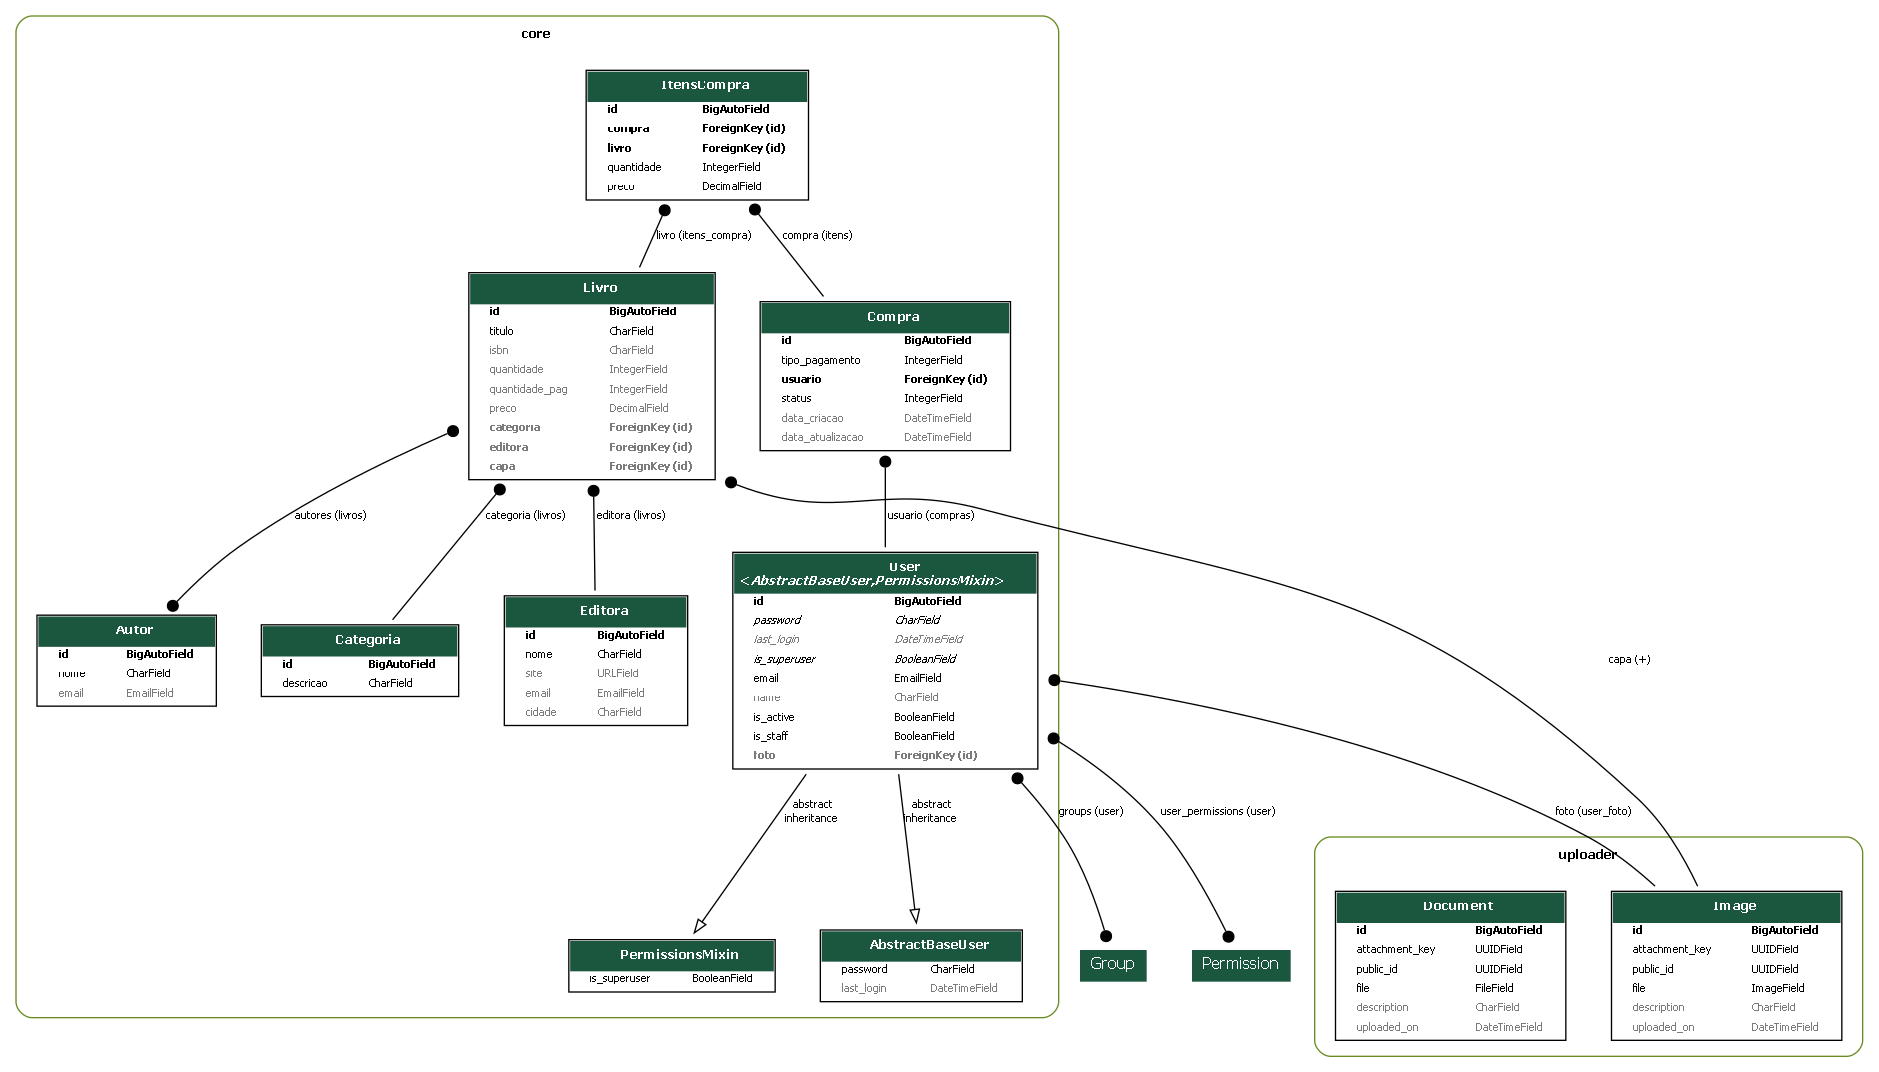
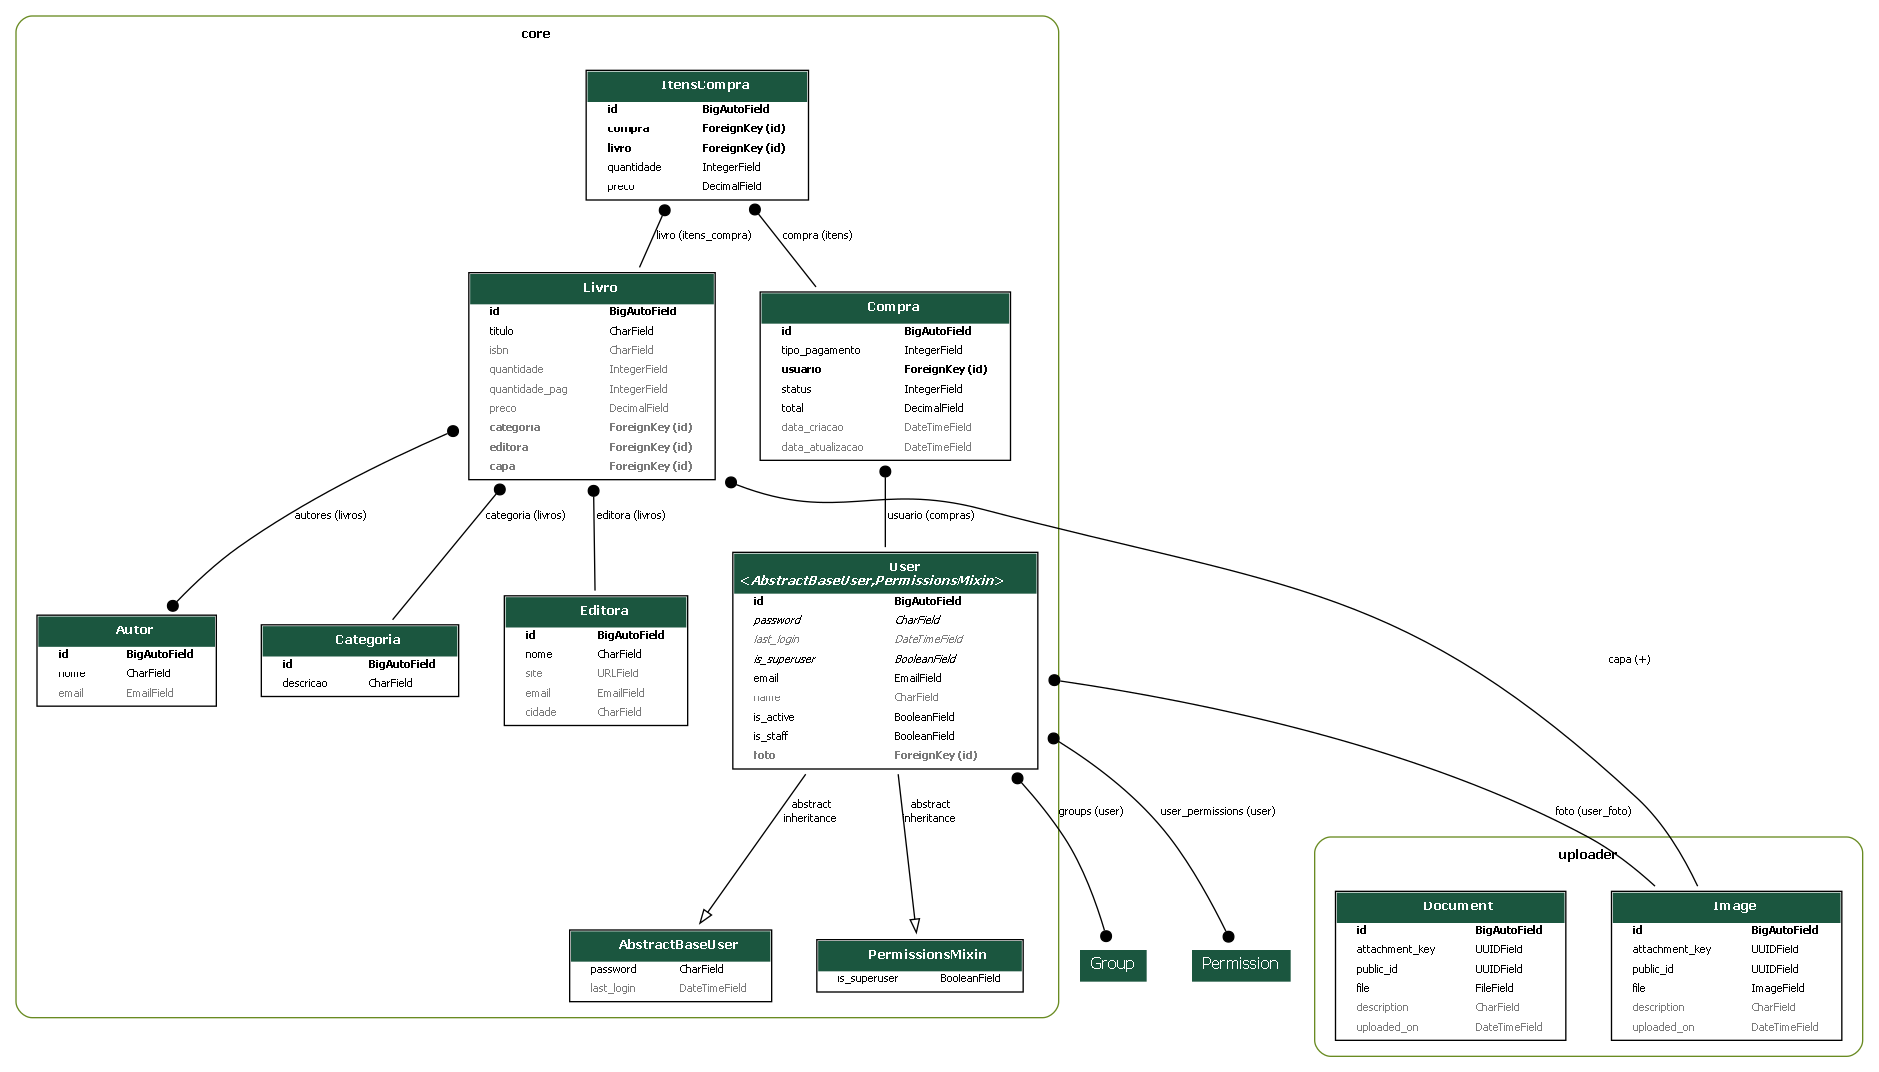
feat: adicionando o total da compra

diff --git a/core/serializers/compra.py b/core/serializers/compra.py
@@ -1,8 +1,4 @@
-from core.models import Compra, ItensCompra
 from django.db import transaction
-from rest_framework import serializers
-
-
 from rest_framework.serializers import (
     CharField,
     CurrentUserDefault,
@@ -10,8 +6,10 @@ from rest_framework.serializers import (
     HiddenField,
     ModelSerializer,
     SerializerMethodField,
-    ValidationError, # novo
+    ValidationError,
 )
+
+from core.models import Compra, ItensCompra
 
 
 class ItensCompraCreateUpdateSerializer(ModelSerializer):
@@ -29,11 +27,23 @@ class ItensCompraCreateUpdateSerializer(ModelSerializer):
             raise ValidationError('Quantidade de itens maior do que a quantidade em estoque.')
         return item
 
-        
+
+class ItensCompraListSerializer(ModelSerializer):
+    livro = CharField(source='livro.titulo', read_only=True)
+
+    class Meta:
+        model = ItensCompra
+        fields = (
+            'quantidade',
+            'preco',
+            'livro',
+        )
+        depth = 1
+
+
 class ItensCompraSerializer(ModelSerializer):
     titulo = CharField(source='livro.titulo', read_only=True)
     editora = CharField(source='livro.editora.nome', read_only=True)
-    preco = CharField(source='livro.preco', read_only=True)
     capa = CharField(source='livro.capa.url', read_only=True)
 
     total = SerializerMethodField()
@@ -43,45 +53,52 @@ class ItensCompraSerializer(ModelSerializer):
 
     class Meta:
         model = ItensCompra
-        fields = ('livro', 'titulo', 'editora', 'quantidade', 'preco', 'total', 'capa')
+        fields = ('titulo', 'editora', 'livro', 'capa', 'quantidade', 'preco', 'total')
         depth = 1
 
-class ItensCompraListSerializer(ModelSerializer):
-    livro = CharField(source='livro.titulo', read_only=True)
-
-    class Meta:
-        model = ItensCompra
-        fields = ('livro', 'quantidade', 'preco')
-        depth = 1
 
 class CompraCreateUpdateSerializer(ModelSerializer):
-    itens = ItensCompraCreateUpdateSerializer(many=True)
     usuario = HiddenField(default=CurrentUserDefault())
+    itens = ItensCompraCreateUpdateSerializer(many=True)
 
     class Meta:
         model = Compra
-        fields = ('id', 'usuario', 'itens')
+        fields = ('usuario', 'itens')
 
     @transaction.atomic
     def create(self, validated_data):
         itens = validated_data.pop('itens')
-        compra = Compra.objects.create(**validated_data)
+        usuario = validated_data['usuario']
+
+        compra, criada = Compra.objects.get_or_create(
+            usuario=usuario, status=Compra.StatusCompra.CARRINHO, defaults=validated_data
+        )
+
         for item in itens:
-            item['preco'] = item['livro'].preco # preço do livro no momento da compra
-            ItensCompra.objects.create(compra=compra, **item)
+            item_existente = compra.itens.filter(livro=item['livro']).first()
+
+            if item_existente:
+                item_existente.quantidade += item['quantidade']
+                item_existente.preco = item['livro'].preco
+                item_existente.save()
+            else:
+                item['preco'] = item['livro'].preco
+                ItensCompra.objects.create(compra=compra, **item)
+
         compra.save()
         return compra
 
     @transaction.atomic
     def update(self, compra, validated_data):
-        itens = validated_data.pop('itens')
+        itens = validated_data.pop('itens', [])
         if itens:
             compra.itens.all().delete()
             for item in itens:
-                item['preco'] = item['livro'].preco  # grava o preço histórico
+                item['preco'] = item['livro'].preco
                 ItensCompra.objects.create(compra=compra, **item)
-        compra.save()
+
         return super().update(compra, validated_data)
+
 
 class CompraListSerializer(ModelSerializer):
     usuario = CharField(source='usuario.email', read_only=True)
@@ -91,13 +108,24 @@ class CompraListSerializer(ModelSerializer):
         model = Compra
         fields = ('id', 'usuario', 'itens')
 
+
 class CompraSerializer(ModelSerializer):
     usuario = CharField(source='usuario.email', read_only=True)
     status = CharField(source='get_status_display', read_only=True)
+    data_criacao = DateTimeField(read_only=True)
+    data_atualizacao = DateTimeField(read_only=True)
     tipo_pagamento = CharField(source='get_tipo_pagamento_display', read_only=True)
-    data_criacao = serializers.DateTimeField(read_only=True)
-    data_atualizacao = serializers.DateTimeField(read_only=True)
     itens = ItensCompraSerializer(many=True, read_only=True)
+
     class Meta:
         model = Compra
-        fields = ('id', 'usuario', 'status', 'tipo_pagamento', 'total', 'data_criacao', 'data_atualizacao', 'itens')
+        fields = (
+            'id',
+            'usuario',
+            'status',
+            'total',
+            'data_criacao',
+            'data_atualizacao',
+            'tipo_pagamento',
+            'itens',
+        )

diff --git a/core/models/compra.py b/core/models/compra.py
@@ -26,12 +26,14 @@ class Compra(models.Model):
     )
     usuario = models.ForeignKey(User, on_delete=models.PROTECT, related_name='compras')
     status = models.IntegerField(choices=StatusCompra.choices,  default=StatusCompra.CARRINHO)
+    total = models.DecimalField(max_digits=10, decimal_places=2, default=0)
     data_criacao = models.DateTimeField(auto_now_add=True)
     data_atualizacao = models.DateTimeField(auto_now=True)
 
-    @property
-    def total(self):
-        return sum(item.preco * item.quantidade for item in self.itens.all())
+    def save(self, *args, **kwargs):
+        if self.pk:
+            self.total = sum(item.preco * item.quantidade for item in self.itens.all())
+        super().save(*args, **kwargs)
 
 class ItensCompra(models.Model):
     compra = models.ForeignKey(Compra, on_delete=models.CASCADE, related_name='itens')

diff --git a/core/migrations/0021_compra_total.py b/core/migrations/0021_compra_total.py
@@ -1,0 +1,18 @@
+# Generated by Django 5.2.13 on 2026-10-20 17:34
+
+from django.db import migrations, models
+
+
+class Migration(migrations.Migration):
+
+    dependencies = [
+        ('core', '0020_alter_compra_tipo_pagamento_alter_itenscompra_livro'),
+    ]
+
+    operations = [
+        migrations.AddField(
+            model_name='compra',
+            name='total',
+            field=models.DecimalField(decimal_places=2, default=0, max_digits=10),
+        ),
+    ]
